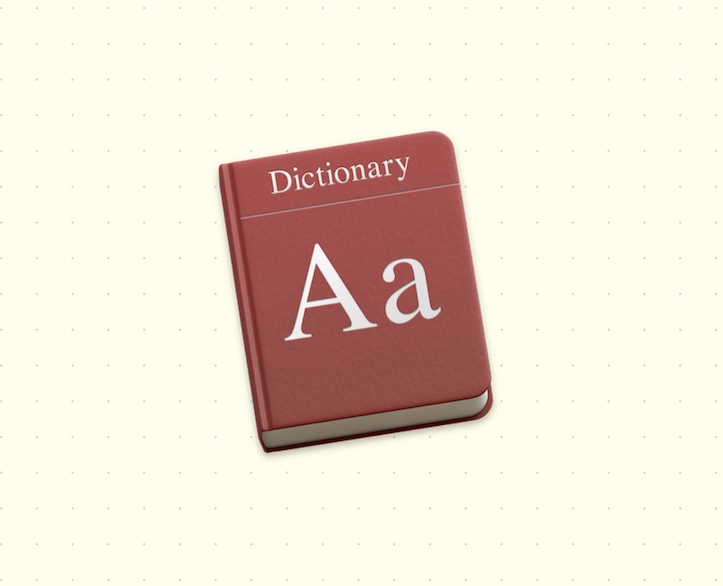
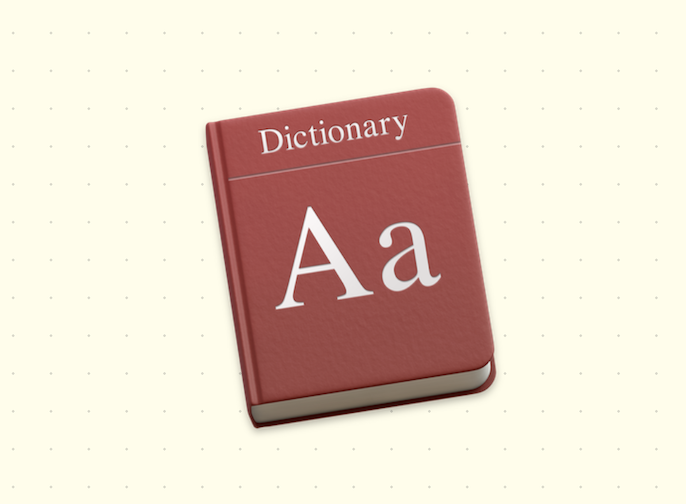
fixed case study tile images

Changed region(s): [[0.2755, 0.1488, 0.7347, 0.8631], [0.3061, 0.4762, 0.3367, 0.5952]]

diff --git a/index.html b/index.html
@@ -34,21 +34,34 @@ header h2 {margin-top:0;}
 .contact a {margin-right:14px;}
 
 /* case-study list styles */
-.sux div {background-image:url(images/scheduleux/sux-preview.png);}
-.dictionary div {background-image:url(images/dictionary/dictionary-preview.png);}
-.last-mile div {background-image:url(images/last-mile/last-mile-preview.png);}
+.sux .img {background-color:#E0F2F1;}
+.dictionary .img {background-color:#FFFDEB;}
+.last-mile .img {background-color:#43436d;}
 
-#portfolio {background-color:var(--bg-faint);padding:1px 60px;}
-#portfolio .tile {background-size:contain;display:block;position:relative;margin:60px 0;text-decoration:none;}
+#portfolio {background-color:var(--bg-faint);padding:1px 20px;}
+#portfolio .tile {display:block;position:relative;margin:30px 0;text-decoration:none;}
 #portfolio .tile:hover {color:inherit;}
-#portfolio .tile div {background-position:right center;background-size:contain;background-repeat:no-repeat;background-color:var(--bg);padding:60px 36vw 60px 60px;transition:all 240ms;}
-#portfolio .tile:nth-of-type(even) div {background-position:left center;padding:60px 60px 60px 36vw;}
-#portfolio .tile:hover div {transform:scale(1.05);}
+#portfolio .tile > div {background-color:var(--bg);padding:0;transition:all 240ms;}
+#portfolio .tile div div {display:block;padding:15px;}
+#portfolio .tile div .img {display:flex;align-items:center;justify-content:center;}
+#portfolio .tile img {width:100%;max-width:260px;}
+#portfolio .tile:hover > div {transform:scale(1.05);}
 #portfolio h3 {font-family:Raleway,sans-serif;font-size:1.6em;font-weight:normal;margin-bottom:.3em;}
 
 /* footer styles */
 footer {background-color:var(--bg);}
 footer a {text-decoration:none;}
+
+@media (min-width:820px) {
+#portfolio {padding:1px 60px;}
+#portfolio .tile {margin:60px 0;}
+#portfolio .tile > div {display:flex;}
+#portfolio .tile div div {width:63%;padding:60px;}
+#portfolio .tile div .img {order:2;max-width:37%;}
+#portfolio .tile img {max-width:100%;}
+#portfolio .tile:nth-of-type(even) div div {order:2;}
+#portfolio .tile:nth-of-type(even) div .img {order:1;}
+}
 
 /* dark-mode colors */
 @media (prefers-color-scheme:dark) {
@@ -82,16 +95,25 @@ footer a {text-decoration:none;}
 	<!-- BEGIN CASE-STUDY LIST -->
 	<section id="portfolio"><div class="container">
 		<a class="tile sux" href="" title="ScheduleUX Administrative Portal"><div class="container">
-			<h3>ScheduleUX Administrative Portal</h3>
-			<p>Growing the tools to support customer service, sales, and administration at scale.</p>
+			<span class="img"><img src="images/sux/sux-preview.png" alt="ScheduleUX icon" /></span>
+			<div>
+				<h3>ScheduleUX Administrative Portal</h3>
+				<p>Growing the tools to support customer service, sales, and administration at scale.</p>
+			</div>
 		</div></a>
 		<a class="tile dictionary" href="https://github.com/brimwd/product-management-reference" title="Product Management Reference Dictionary"><div class="container">
-			<h3>Product Management Dictionary</h3>
-			<p>A community-sourced reference for (Software) Product Management and UX-related terms.</p>
+			<span class="img"><img src="images/dictionary/dictionary-preview.png" alt="Dictionary icon" /></span>
+			<div>
+				<h3>Product Management Dictionary</h3>
+				<p>A community-sourced reference for (Software) Product Management and UX-related terms.</p>
+			</div>
 		</div></a>
 		<a class="tile last-mile" href="last-mile.html" title="Optimizing The Last Mile"><div class="container">
-			<h3>Optimizing The Last Mile</h3>
-			<p>A Comparison of Methodologies for Measuring Transport Distance in Supply Chain Delivery.</p>
+			<span class="img"><img src="images/last-mile/last-mile-preview.png" alt="Last-Mile icon" /></span>
+			<div>
+				<h3>Optimizing The Last Mile</h3>
+				<p>A Comparison of Methodologies for Measuring Transport Distance in Supply Chain Delivery.</p>
+			</div>
 		</div></a>
 	</div></section>
 	<!-- END CASE-STUDY LIST -->
